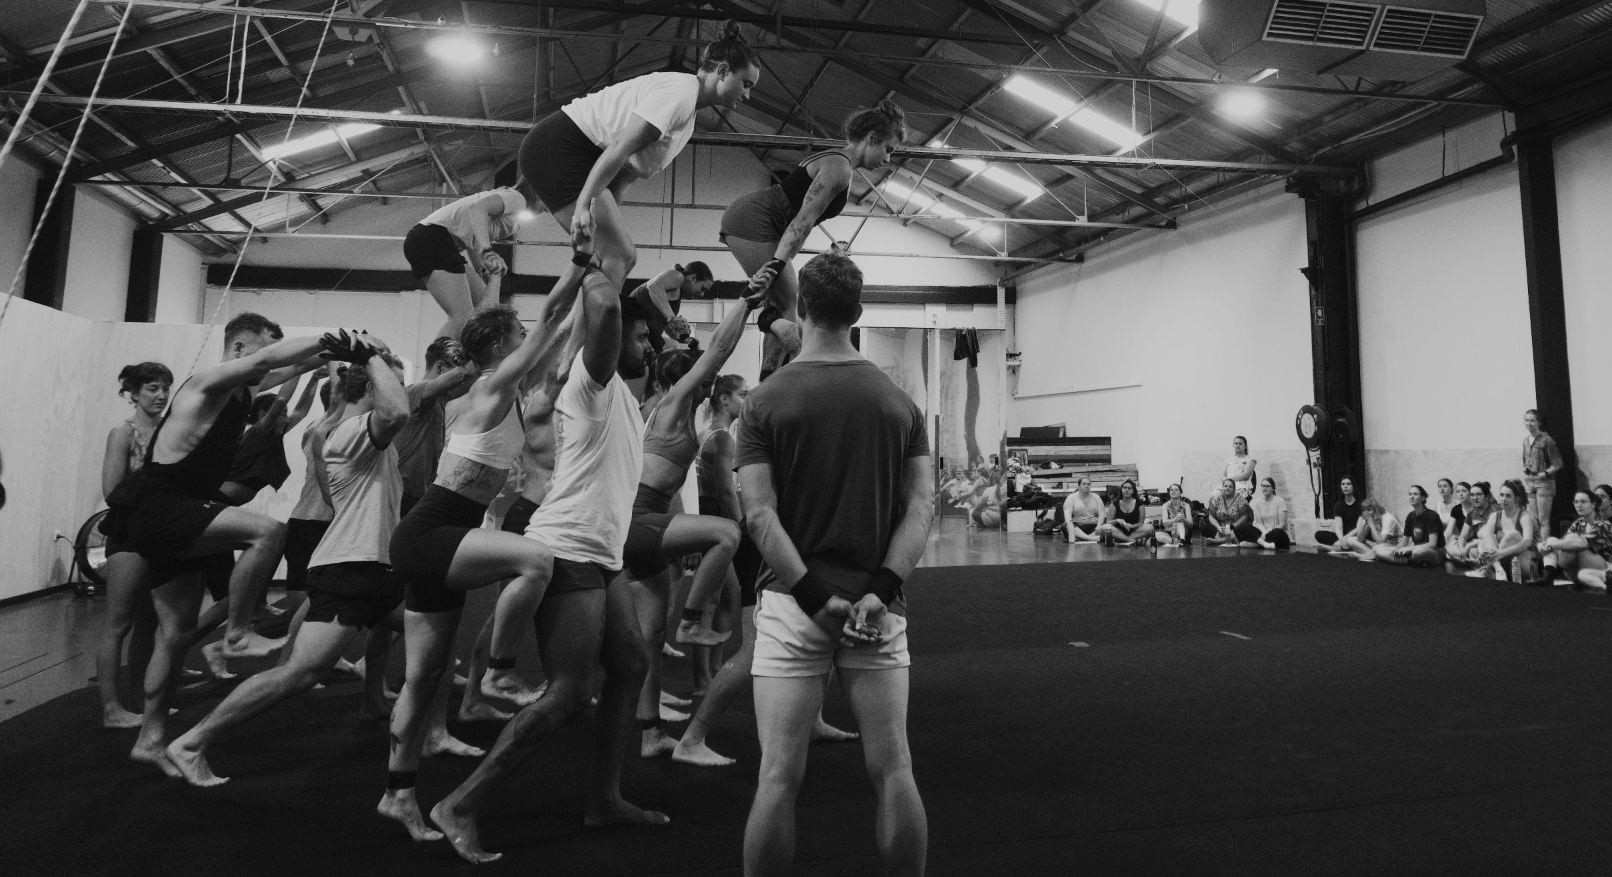
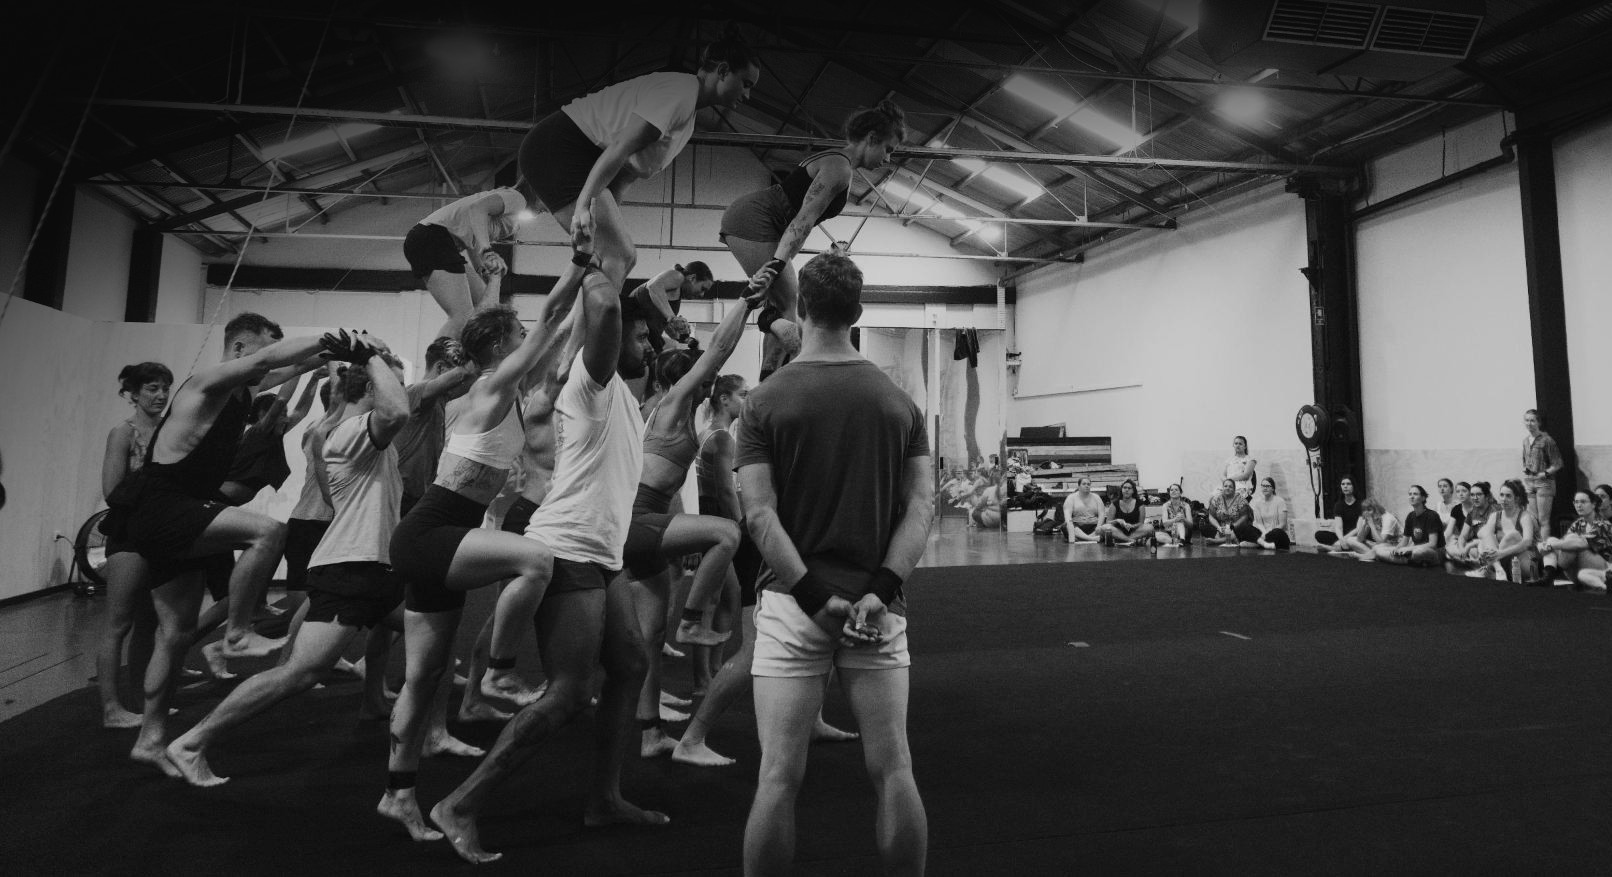
adjust lewies coaching photo, change heading

Changed region(s): [[0.0, 0.0, 1.0, 0.6773]]

diff --git a/styles.css b/styles.css
@@ -142,10 +142,9 @@ main a:hover {
 }
 
 .coaching h2 {
-  /*position: relative;*/
-  /*bottom: 0;
-  margin: 2em;*/
-  /*font-weight: normal;*/
+  position: absolute;
+  margin: 2em;
+  font-weight: normal;
 }
 
 
